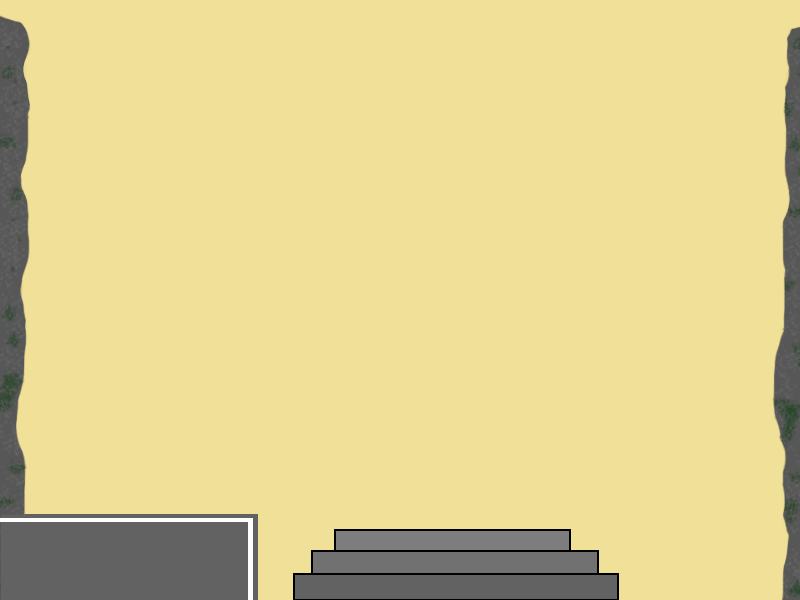
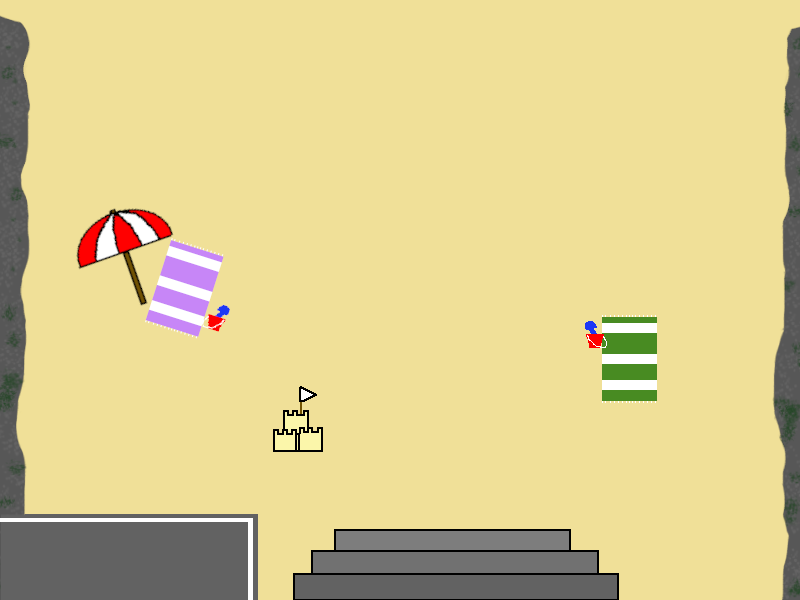
Added beach items to background and fixed audio bug in game over

Changed region(s): [[0.0938, 0.33, 0.2812, 0.57], [0.7188, 0.51, 0.8438, 0.69], [0.3438, 0.63, 0.4062, 0.78]]

diff --git a/src/game/scenes/GameOver.js b/src/game/scenes/GameOver.js
@@ -13,6 +13,8 @@ export class GameOver extends Scene
 
         this.add.image(400, 300, 'background').setAlpha(0.5);
 
+        this.musicArray = this.sound.getAllPlaying();
+
         this.add.text(400, 300, 'Game Over', {
             fontFamily: 'Arial Black', fontSize: 64, color: '#ffffff',
             stroke: '#000000', strokeThickness: 8,
@@ -20,7 +22,9 @@ export class GameOver extends Scene
         }).setOrigin(0.5);
 
         this.input.once('pointerdown', () => {
-
+            this.musicArray.forEach((item) => {
+                item.stop();
+            });
             this.scene.start('MainMenu');
 
         });
